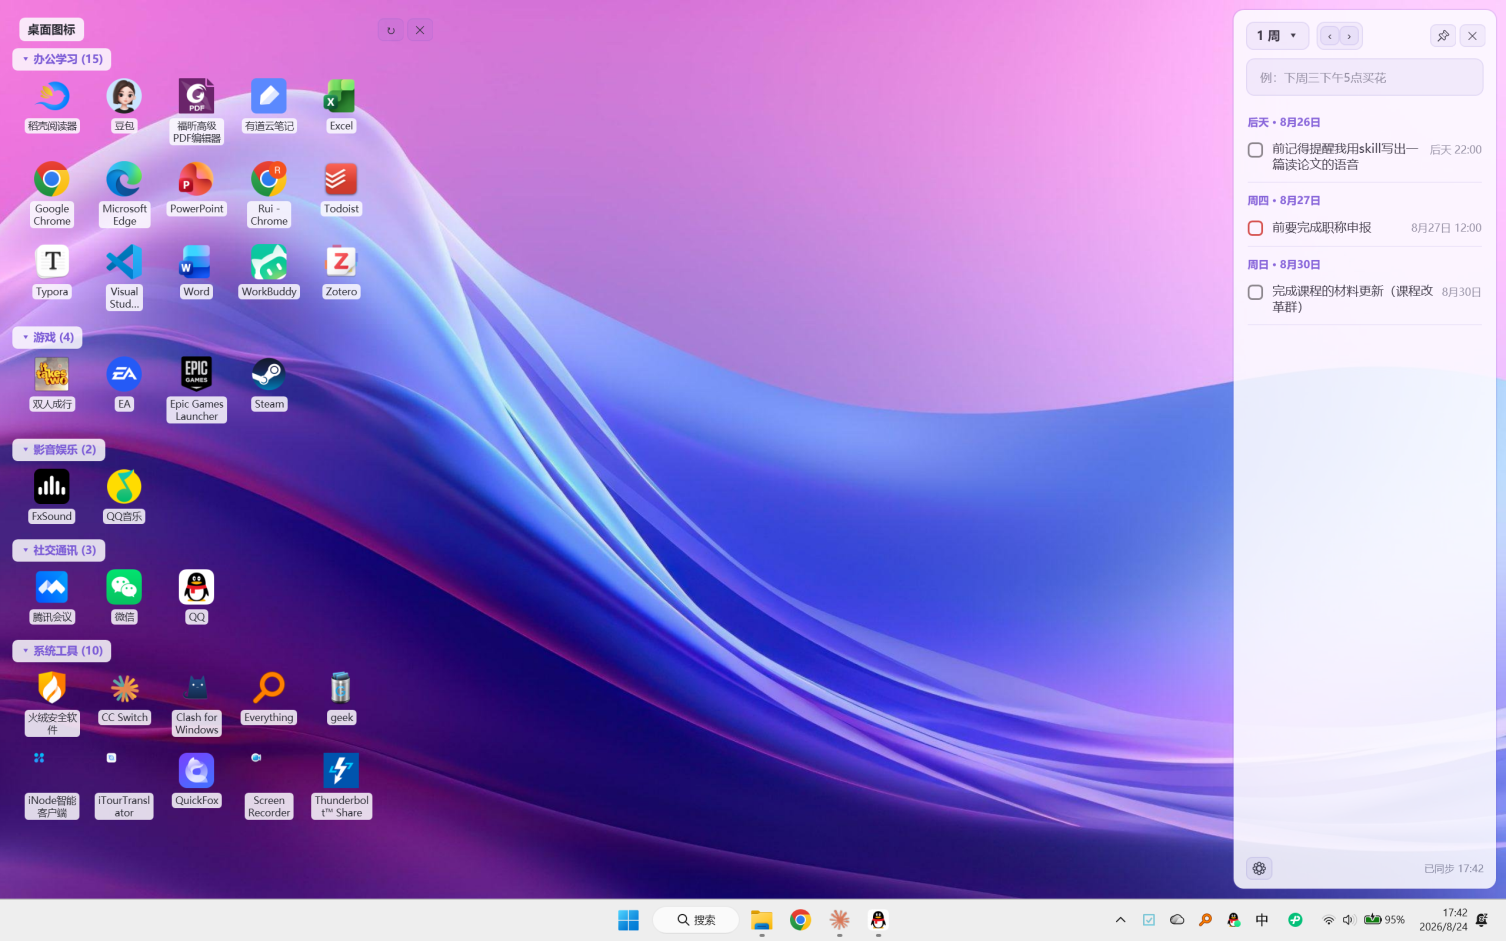
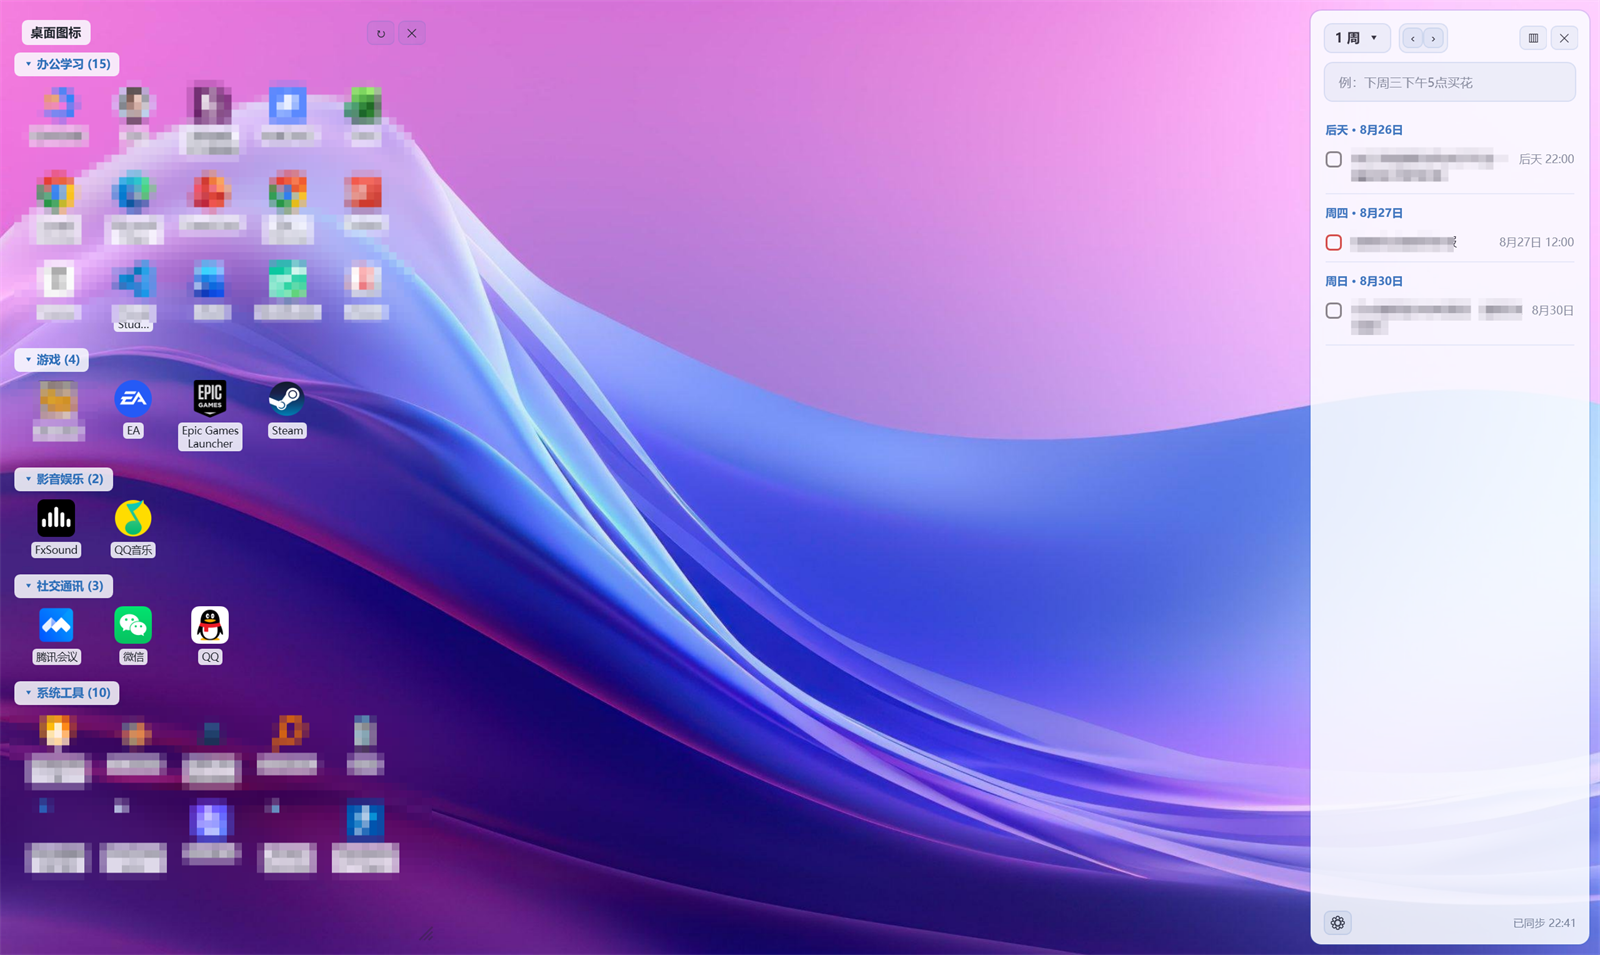
更新截图：隐去个人信息，替换为图标框特写

diff --git a/README.md b/README.md
@@ -76,9 +76,9 @@ DeskTodo 只做一件事：**把你的待办，好好地呈现在 Windows 桌面
 **桌面图标整理框**
 
 桌面上几十个快捷方式，自动按用途分成 6 类。
-可以顺带把原来乱糟糟的桌面图标藏起来。
+没有卡片背景 —— 图标看着还是摆在桌面上，只是被分了组。
 
-<img src="docs/images/hidden-icons.png" alt="桌面图标整理框">
+<img src="docs/images/iconbox.png" alt="桌面图标整理框">
 
 </td>
 <td width="50%" valign="top">
